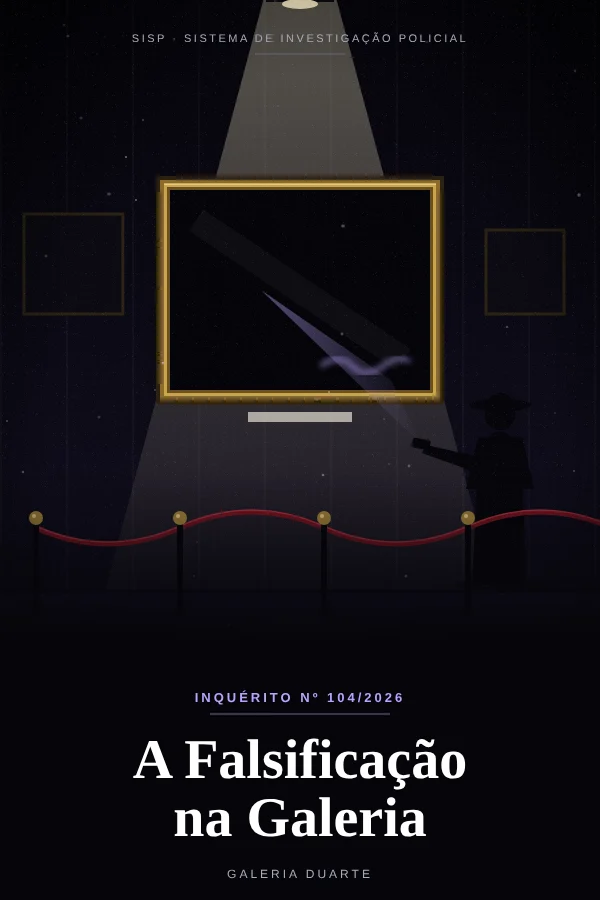
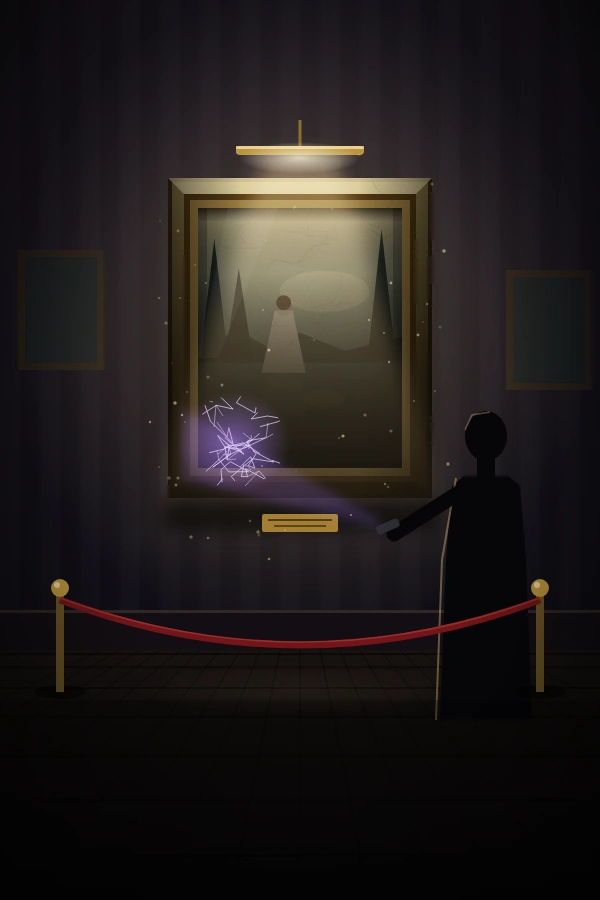
Capa nova do caso comum 6 (com versão na URL) (#100)
Claude-Session: https://claude.ai/code/session_015tfXN2LHrSJNSLNMARGbDc

diff --git a/js/02-casos-lista.js b/js/02-casos-lista.js
@@ -1,4 +1,4 @@
-window.IMV=id=>({e1:'',e2:'?v=2',e3:'?v=3',e4:'?v=3'}[id]||'');
+window.IMV=id=>({e1:'',e2:'?v=2',e3:'?v=3',e4:'?v=3',c6:'?v=2'}[id]||'');
 /* primeiro nome sem deixar título sozinho (Seu, Dona, Irmã, Frei, Comandante...) */
 function nm1(n){const p=String(n).split(' ');if(/^(Dra?\.?|Sra?\.?)$/.test(p[0])&&p[1])return p[1];if(/^(Seu|Sua|Dona|Ir[mM][ãa]o?|Frei|Madre|Padre|Dom|Comandante|Cmte\.?|Capit[ãa]o|Doutor|Doutora|Madame|Mestre|Palha[cç]o)$/.test(p[0])&&p[1])return p[0]+' '+p[1];return p[0]}
 const CASES=[mkC0(),Object.assign(mkC1(),{id:'c1',key:'sisp104b',n:'A Última Xícara',num:'Inquérito nº 104/2026',place:'Mansão Sterling',blurb:'Um bioquímico morre num escritório trancado por dentro, numa noite de tempestade. Três suspeitos e um chá frio.',dif:2,t0:1392,dead:1800,thr:4,top:9,start:'office',LOCT:{copa:'q_c1',lab:'q_e1',vault:'q_e2'},LN:{copa:'Copa e portaria',lab:'Laboratório',vault:'Cofre oculto'},
